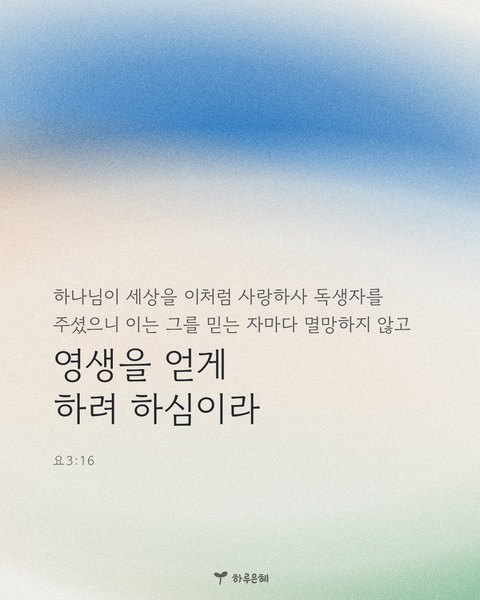
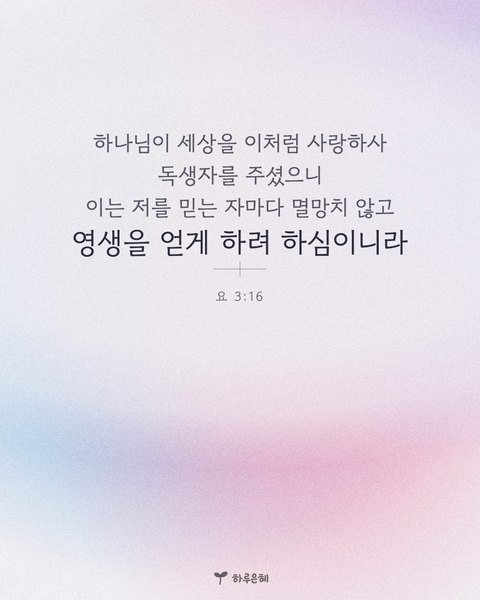
Replace style previews with the user's 개역한글 sample cards

diff --git a/src/pages/CardDesigner.tsx b/src/pages/CardDesigner.tsx
@@ -1874,7 +1874,7 @@ export default function Designer() {
                   {/* 샘플 이미지가 들어갈 자리. 비율은 고른 비율과 무관하게 항상 4:5 로 고정한다 —
                       여기서 보여주는 건 '어떤 스타일인지'지 '어떤 비율인지'가 아니다(사용자 결정 2026-10-27,
                       시안 A 의 "고른 비율대로" 지시를 대체).
-                      2026-11-13 견본 4장은 사용자가 직접 만들어 준 카드다(요3:16). 주의: 지금 본문은 개역개정 문장이다. 원래 견본은 개역한글로 하기로 했으므로 교체 또는 대한성서공회 확인 대기.
+                      2026-11-13 견본 4장은 사용자가 직접 만들어 준 카드다(요3:16, 개역한글 본문 — 원래 정한 대로). 앱 표시(새싹잎·하루은혜)가 들어 있다.
                       앱이 성경 본문을 만들어 넣지 않는다는 원칙(CLAUDE.md 11장)은 그대로다: 견본은 사용자가 준 이미지 파일일 뿐이다. */}
                   <div className="relative w-full aspect-[4/5] overflow-hidden rounded-xl bg-[#F3F2F1]">
                     {thumb ? (
